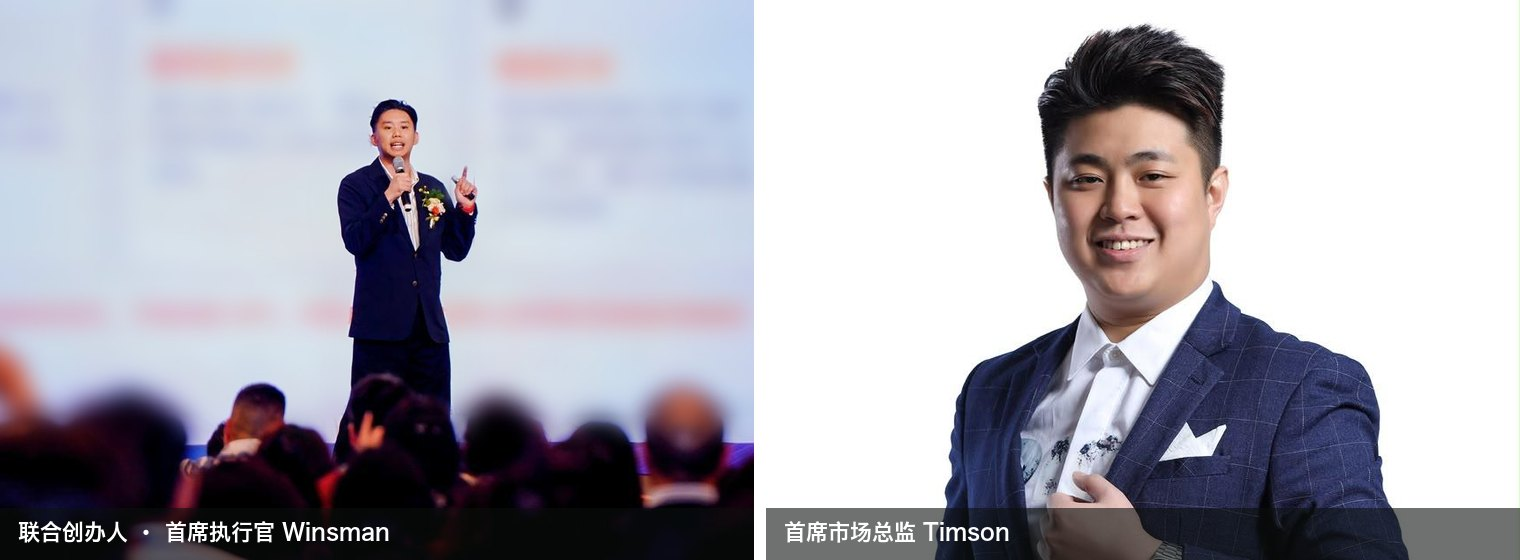
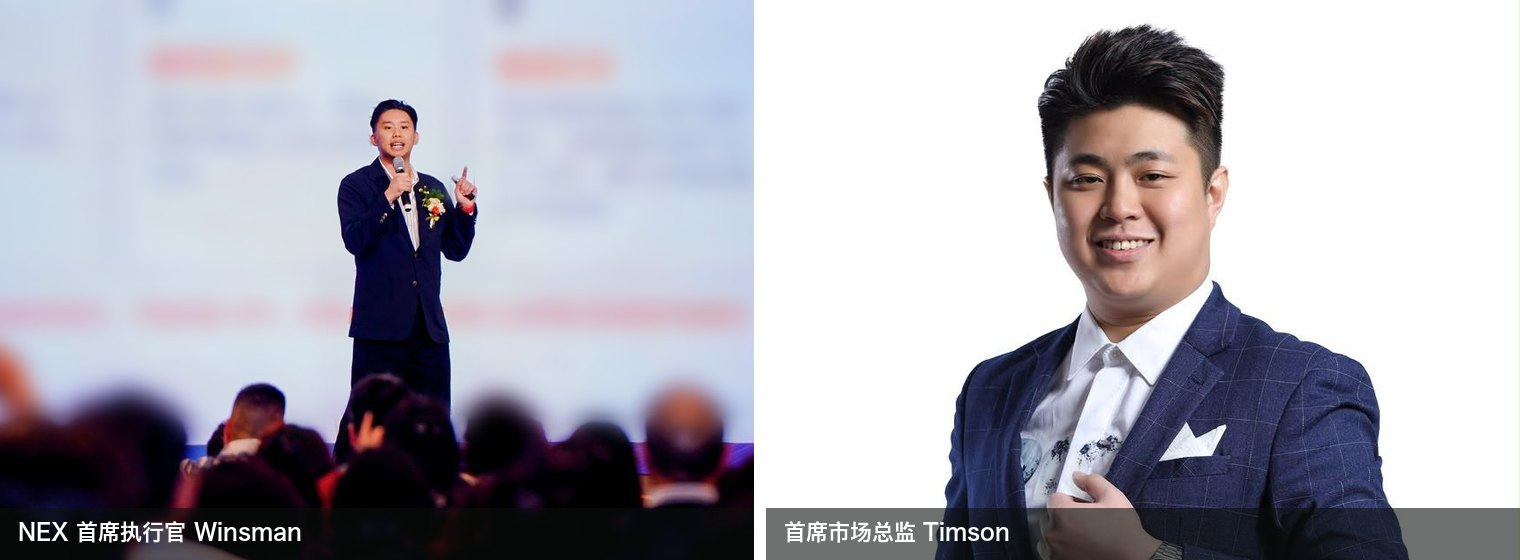
docs: one-page team table uses the NEX CEO designation (zh/en)

Changed region(s): [[0.0, 0.9107, 0.2783, 0.9714]]

diff --git a/docs/en/one-page/README.md b/docs/en/one-page/README.md
@@ -33,7 +33,7 @@ The NEX core team:
 
 |  | Role |
 | :-- | :-- |
-| Winsman | Co-founder · Chief Executive Officer |
+| Winsman | Chief Executive Officer, NEX |
 | Timson | Chief Marketing Officer |
 | Batter | Dean, Global Business School |
 | Robart | Director of Market Expansion, Europe and the Americas |

diff --git a/docs/zh/one-page/README.md b/docs/zh/one-page/README.md
@@ -33,7 +33,7 @@ NEX 核心团队：
 
 |  | 职务 |
 | :-- | :-- |
-| Winsman | 联合创办人 · 首席执行官 CEO |
+| Winsman | NEX 首席执行官 CEO |
 | Timson | 首席市场总监 CMO |
 | Batter | 全球商学院院长 |
 | Robart | 欧美市场拓展总监 |
